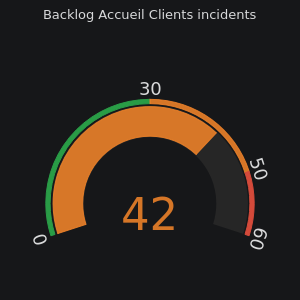
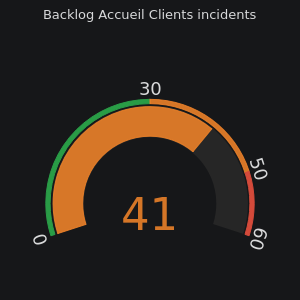
Added scheduled tasks

Changed region(s): [[0.51, 0.63, 0.6, 0.78], [0.63, 0.42, 0.72, 0.51]]

diff --git a/app/Http/Controllers/WelcomeController.php b/app/Http/Controllers/WelcomeController.php
@@ -12,83 +12,14 @@ use Carbon\Carbon;
 class WelcomeController extends Controller
 {
     public function get() {
-        $this->refreshAllGraph();
+        //app('App\Http\Controllers\GrafanaController')->refreshAllGraph();
 
+        //Graphs are automatically update every X seconds (see app/Console/Kernel.php)
         $conf = json_decode(Storage::get('grafana.conf'), true);
         $lastUpd = Carbon::create($conf['lastAllGrafUpdate'])->format('d/m/Y à H:i');
         return view('welcome')
             ->with('lastUpdate', $lastUpd);
     }
 
-    public function refreshAllGraph() {
-
-        
-        //Read from conf file
-        if(!Storage::exists('grafana.conf'))  Storage::put('grafana.conf', '');
-        $conf = json_decode(Storage::get('grafana.conf'), true);
-        
-        if(isset($conf['lastAllGrafUpdate'])) {
-            $lastUpd = Carbon::create($conf['lastAllGrafUpdate'],'Europe/Paris');
-
-            //Only refresh every X seconds, may be upgraded with cron to avoid user to wait for loading
-            if($lastUpd->diffInSeconds(Carbon::now('Europe/Paris')) < env('GRAFANA_REFRESH_COOLDOWN', 1800)) {
-                return;
-            }
-        }
-
-        //Panel's ID to display (order is important, first in array first display in view)
-        $panelsID = array(5,13, 18, 10, 14, 17, 12);
-        $i = 1;
-        $width=300; $height=300;
-        foreach($panelsID as $id) {
-            if($id == 12) {
-                $width = 900;
-                $height = 600;
-                $this->updateGraph(1, $id, $width, $height, "grafana-$i", 'now-11d');
-            }else {
-                $this->updateGraph(1, $id, $width, $height, "grafana-$i");
-            }
-            
-            $i++;
-        }
-
-        
-        
-        $conf['lastAllGrafUpdate'] = Carbon::now('Europe/Paris')->toDateTimeString();
-        Storage::put('grafana.conf', json_encode($conf));
-    }
-
-    public function updateGraph($orgId, $panelId, $width, $height, $name, $from = 'now-24h' , $to = 'now') {
-
[1 lines of base64/hex data omitted]
-            $url = "http://10.128.204.145:3000/render/dashboard-solo/db/acesi-indicateurs-de-pilotage-vita?orgId=$orgId&panelId=$panelId&from=$from&to=$to&width=$width&height=$height";
-           
-            $client = new Client([
-                // Base URI is used with relative requests
-                'base_uri' => $url,
-                // You can set any number of default request options.
-                'timeout'  => 5.0,
-                'headers' => ['Authorization' => "Bearer ". $apiKey],
-                'sink' => public_path() . "/img/grafana/$name.png"
-            ]);
-
-           
-            try {
-                $response = $client->request('GET');
-            } catch (\Guzzle\Http\Exception\BadResponseException $e) {
-                $result = $e->getResponse()->getStatusCode();
-
-                if ($result === 401) {
-                    return "401 error !";
-                }
-            } catch(\Guzzle\Http\Exception\ConnectException $e) {
-                return "Timeout";
-            } catch(\Exception $e) {
-                return "Erreur inconnue";
-            }
-
-            return null;
-
-    }
 
 }

diff --git a/app/Http/Controllers/GrafanaController.php b/app/Http/Controllers/GrafanaController.php
@@ -1,0 +1,80 @@
+<?php
+
+namespace App\Http\Controllers;
+
+use Illuminate\Http\Request;
+use GuzzleHttp\Client;
+use GuzzleHttp\Exception\GuzzleException;
+use Storage;
+use Carbon\Carbon;
+
+class GrafanaController extends Controller
+{
+     public function refreshAllGraph() {
+        //Read from conf file
+        if(!Storage::exists('grafana.conf'))  Storage::put('grafana.conf', '');
+        $conf = json_decode(Storage::get('grafana.conf'), true);
+        
+        if(isset($conf['lastAllGrafUpdate'])) {
+            $lastUpd = Carbon::create($conf['lastAllGrafUpdate'],'Europe/Paris');
+
+            //Security to be sure that it is not call too often
+            if($lastUpd->diffInSeconds(Carbon::now('Europe/Paris')) < env('GRAFANA_REFRESH_COOLDOWN', 60)) {
+                return;
+            }
+        }
+
+        //Panel's ID to display (order is important, first in array first display in view)
+        $panelsID = array(5,13, 18, 10, 14, 17, 12);
+        $i = 1;
+        $width=300; $height=300;
+        foreach($panelsID as $id) {
+            if($id == 12) {
+                $width = 900;
+                $height = 600;
+                $this->updateGraph(1, $id, $width, $height, "grafana-$i", 'now-11d');
+            }else {
+                $this->updateGraph(1, $id, $width, $height, "grafana-$i");
+            }
+            
+            $i++;
+        }
+
+       
+        $conf['lastAllGrafUpdate'] = Carbon::now('Europe/Paris')->toDateTimeString();
+        Storage::put('grafana.conf', json_encode($conf));
+    }
+
+    public function updateGraph($orgId, $panelId, $width, $height, $name, $from = 'now-24h' , $to = 'now') {
+
[1 lines of base64/hex data omitted]
+            $url = "http://10.128.204.145:3000/render/dashboard-solo/db/acesi-indicateurs-de-pilotage-vita?orgId=$orgId&panelId=$panelId&from=$from&to=$to&width=$width&height=$height";
+           
+            $client = new Client([
+                // Base URI is used with relative requests
+                'base_uri' => $url,
+                // You can set any number of default request options.
+                'timeout'  => 5.0,
+                'headers' => ['Authorization' => "Bearer ". $apiKey],
+                'sink' => public_path() . "/img/grafana/$name.png"
+            ]);
+
+           
+            try {
+                $response = $client->request('GET');
+            } catch (\Guzzle\Http\Exception\BadResponseException $e) {
+                $result = $e->getResponse()->getStatusCode();
+
+                if ($result === 401) {
+                    return "401 error !";
+                }
+            } catch(\Guzzle\Http\Exception\ConnectException $e) {
+                return "Timeout";
+            } catch(\Exception $e) {
+                return "Erreur inconnue";
+            }
+
+            return null;
+
+    }
+}

diff --git a/app/Http/Controllers/SharepointController.php b/app/Http/Controllers/SharepointController.php
@@ -14,6 +14,8 @@ use Carbon\Carbon;
  
 https://blog.atwork.at/post/Access-files-in-OneDrive-or-SharePoint-with-Microsoft-Graph-and-the-Excel-API
 
+Example of microsoft graph API links
+
 https://graph.microsoft.com/v1.0/sites/acesi.sharepoint.com:/sites/Extranet 
 https://graph.microsoft.com/v1.0/sites/acesi.sharepoint.com:/sites/Extranet:/drives?$select=name,id //Folder info, id , name
 https://graph.microsoft.com/v1.0/sites/acesi.sharepoint.com/drives/b!L3KH91MLuEG2wDMCyDRPnLIbRYh8ofNHlKCVtzt2FyRmUez0j23JTJnX9jLqS95_ //Find url
@@ -29,9 +31,10 @@ class SharepointController extends Controller
     public function get() {
         if(!Storage::exists('customers.conf'))  Storage::put('customers.conf', '');
         $conf = json_decode(Storage::get('customers.conf'), true);
+
+        //Get last update date
         $lastAllCustomersUpdate = null;
         if(isset ($conf['lastAllCustomersUpdate'])) $lastAllCustomersUpdate = Carbon::create($conf['lastAllCustomersUpdate'])->format('d/m/Y à H:i');
-
 
         return view("sharepoint")
         ->with('lastAllCustomersUpdate', $lastAllCustomersUpdate);
@@ -51,7 +54,9 @@ class SharepointController extends Controller
                 $msg = $this->refreshCustomersFromSharepoint();
                 return redirect()->back()->with('successMsg', $msg);
             case 'all' :
-                $msg = $this->refreshAllCustomersFromSharepoint();
+                //$msg = $this->refreshAllCustomersFromSharepoint();
+                //TODO Run schedule task
+                $msg = "Mise à jour en cours, cela peut prendre jusqu'à quelques dizaines de minutes";
                 return redirect()->back()->with('successMsg', $msg);
         }
         
@@ -124,6 +129,7 @@ class SharepointController extends Controller
         if(!Storage::exists('customers.conf'))  Storage::put('customers.conf', '');
         $conf = json_decode(Storage::get('customers.conf'), true);
         $conf['lastAllCustomersUpdate'] = Carbon::now('Europe/Paris')->toDateTimeString();
+        Storage::put('customers.conf', json_encode($conf));
     }
 
  

diff --git a/app/Console/Kernel.php b/app/Console/Kernel.php
@@ -5,6 +5,7 @@ namespace App\Console;
 use Illuminate\Console\Scheduling\Schedule;
 use Illuminate\Foundation\Console\Kernel as ConsoleKernel;
 
+
 class Kernel extends ConsoleKernel
 {
     /**
@@ -24,8 +25,22 @@ class Kernel extends ConsoleKernel
      */
     protected function schedule(Schedule $schedule)
     {
-        // $schedule->command('inspire')
-        //          ->hourly();
+        //Refresh grafana graphs
+        $schedule->call('App\Http\Controllers\GrafanaController@refreshAllGraph')
+	    ->everyMinute()
+	    ->appendOutputTo(storage_path().'/logs/grafana.log');
+
+        //Refresh ALL customers data 
+        $schedule->call('App\Http\Controllers\SharepointController@refreshAllCustomersFromSharepoint')
+	    ->dailyAt('01:00')
+	    ->appendOutputTo(storage_path().'/logs/customersAll.log');
+
+        //Refresh customers list
+        $schedule->call('App\Http\Controllers\SharepointController@refreshCustomersFromSharepoint')
+	    ->twiceDaily(1, 13)
+	    ->appendOutputTo(storage_path().'/logs/customersList.log');
+        
+        
     }
 
     /**

diff --git a/resources/views/customers.blade.php b/resources/views/customers.blade.php
@@ -25,7 +25,13 @@
     </div>
     @if(Session::has('permission_level') && Session::get('permission_level') >= env('EDITOR_LEVEL', 2))
     <a href="#" onclick="event.preventDefault(); document.getElementById('refresh-customer-form').submit();"> {{ __('Mettre à jour la liste de clients') }} </a>
-    <p class="text-muted"> Dernière mise à jour le {{ $lastUpdate }} </p>
+    <p class="text-muted">
+        @isset($lastUpdate)
+        Dernière mise à jour le {{ $lastUpdate }}
+        @else
+        Aucune mise à jour récente trouvée
+        @endisset
+    </p>
     <form id="refresh-customer-form" action="{{ url('sharepoint') }}" method="POST" style="display: none;">
         @csrf
         <input type="text" name="type" value="list"> </input>

diff --git a/app/Http/Controllers/CustomerController.php b/app/Http/Controllers/CustomerController.php
@@ -162,7 +162,12 @@ class CustomerController extends Controller
       if(Storage::exists('sharepoint-clients.json') && Storage::exists('customers.conf')) {
         $customers = json_decode(Storage::get('sharepoint-clients.json'), true);
         $conf = json_decode(Storage::get('customers.conf'), true);
-        $lastUpdate = Carbon::create($conf["lastCustomersUpdate"])->format('d/m/Y à H:i');
+
+        $lastUpdate = null;
+        if(isset($conf["lastCustomersUpdate"])) {
+            $lastUpdate = Carbon::create($conf["lastCustomersUpdate"])->format('d/m/Y à H:i');
+        }
+
         return view("customers")
             ->with('customers',$customers)
             ->with('lastUpdate', $lastUpdate);

diff --git a/resources/views/sharepoint.blade.php b/resources/views/sharepoint.blade.php
@@ -12,7 +12,7 @@
 
 @section('content')
 
-<a href="#" onclick="event.preventDefault(); document.getElementById('refresh-customer-form').submit();"> {{ __('Mise à jour des clients manuelle') }} </a>
+<a href="#" onclick="event.preventDefault(); document.getElementById('refresh-customer-form').submit();"> {{ __('Mise à jour de la liste de clients') }} </a>
 
 <form id="refresh-customer-form" action="{{ url('sharepoint') }}" method="POST" style="display: none;">
     <input type="text" name="type" value="list"> </input>
